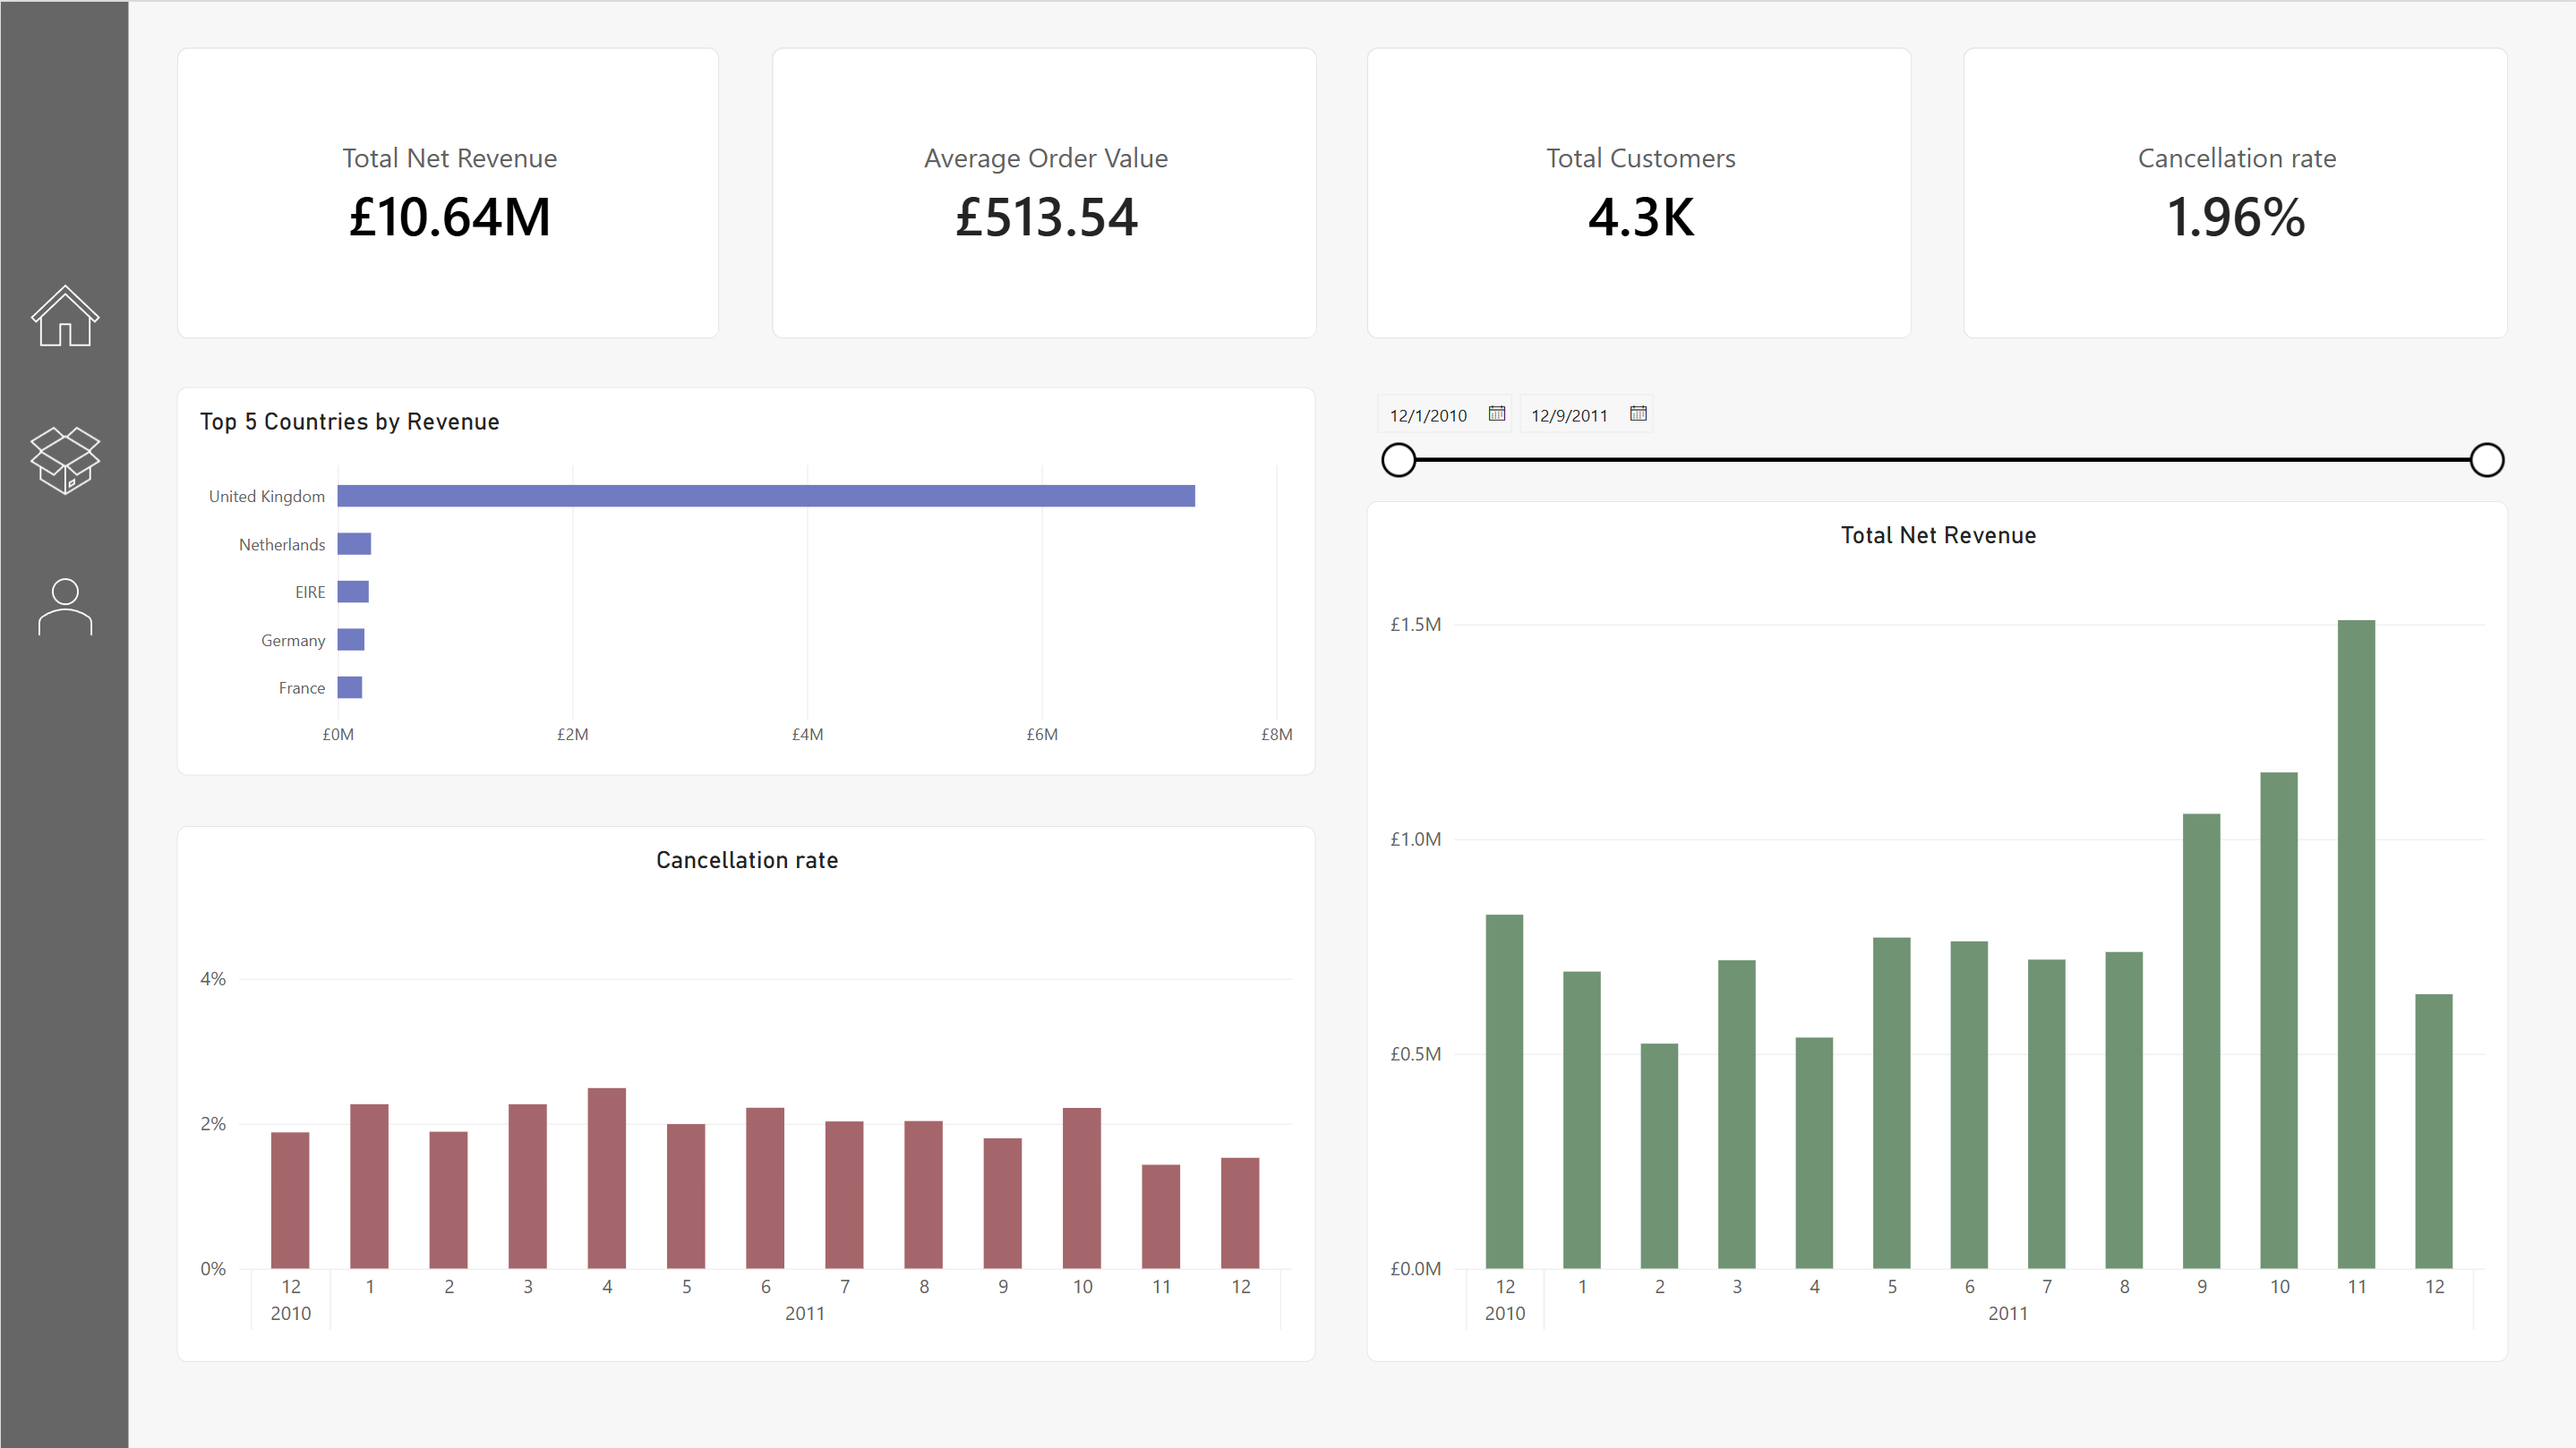
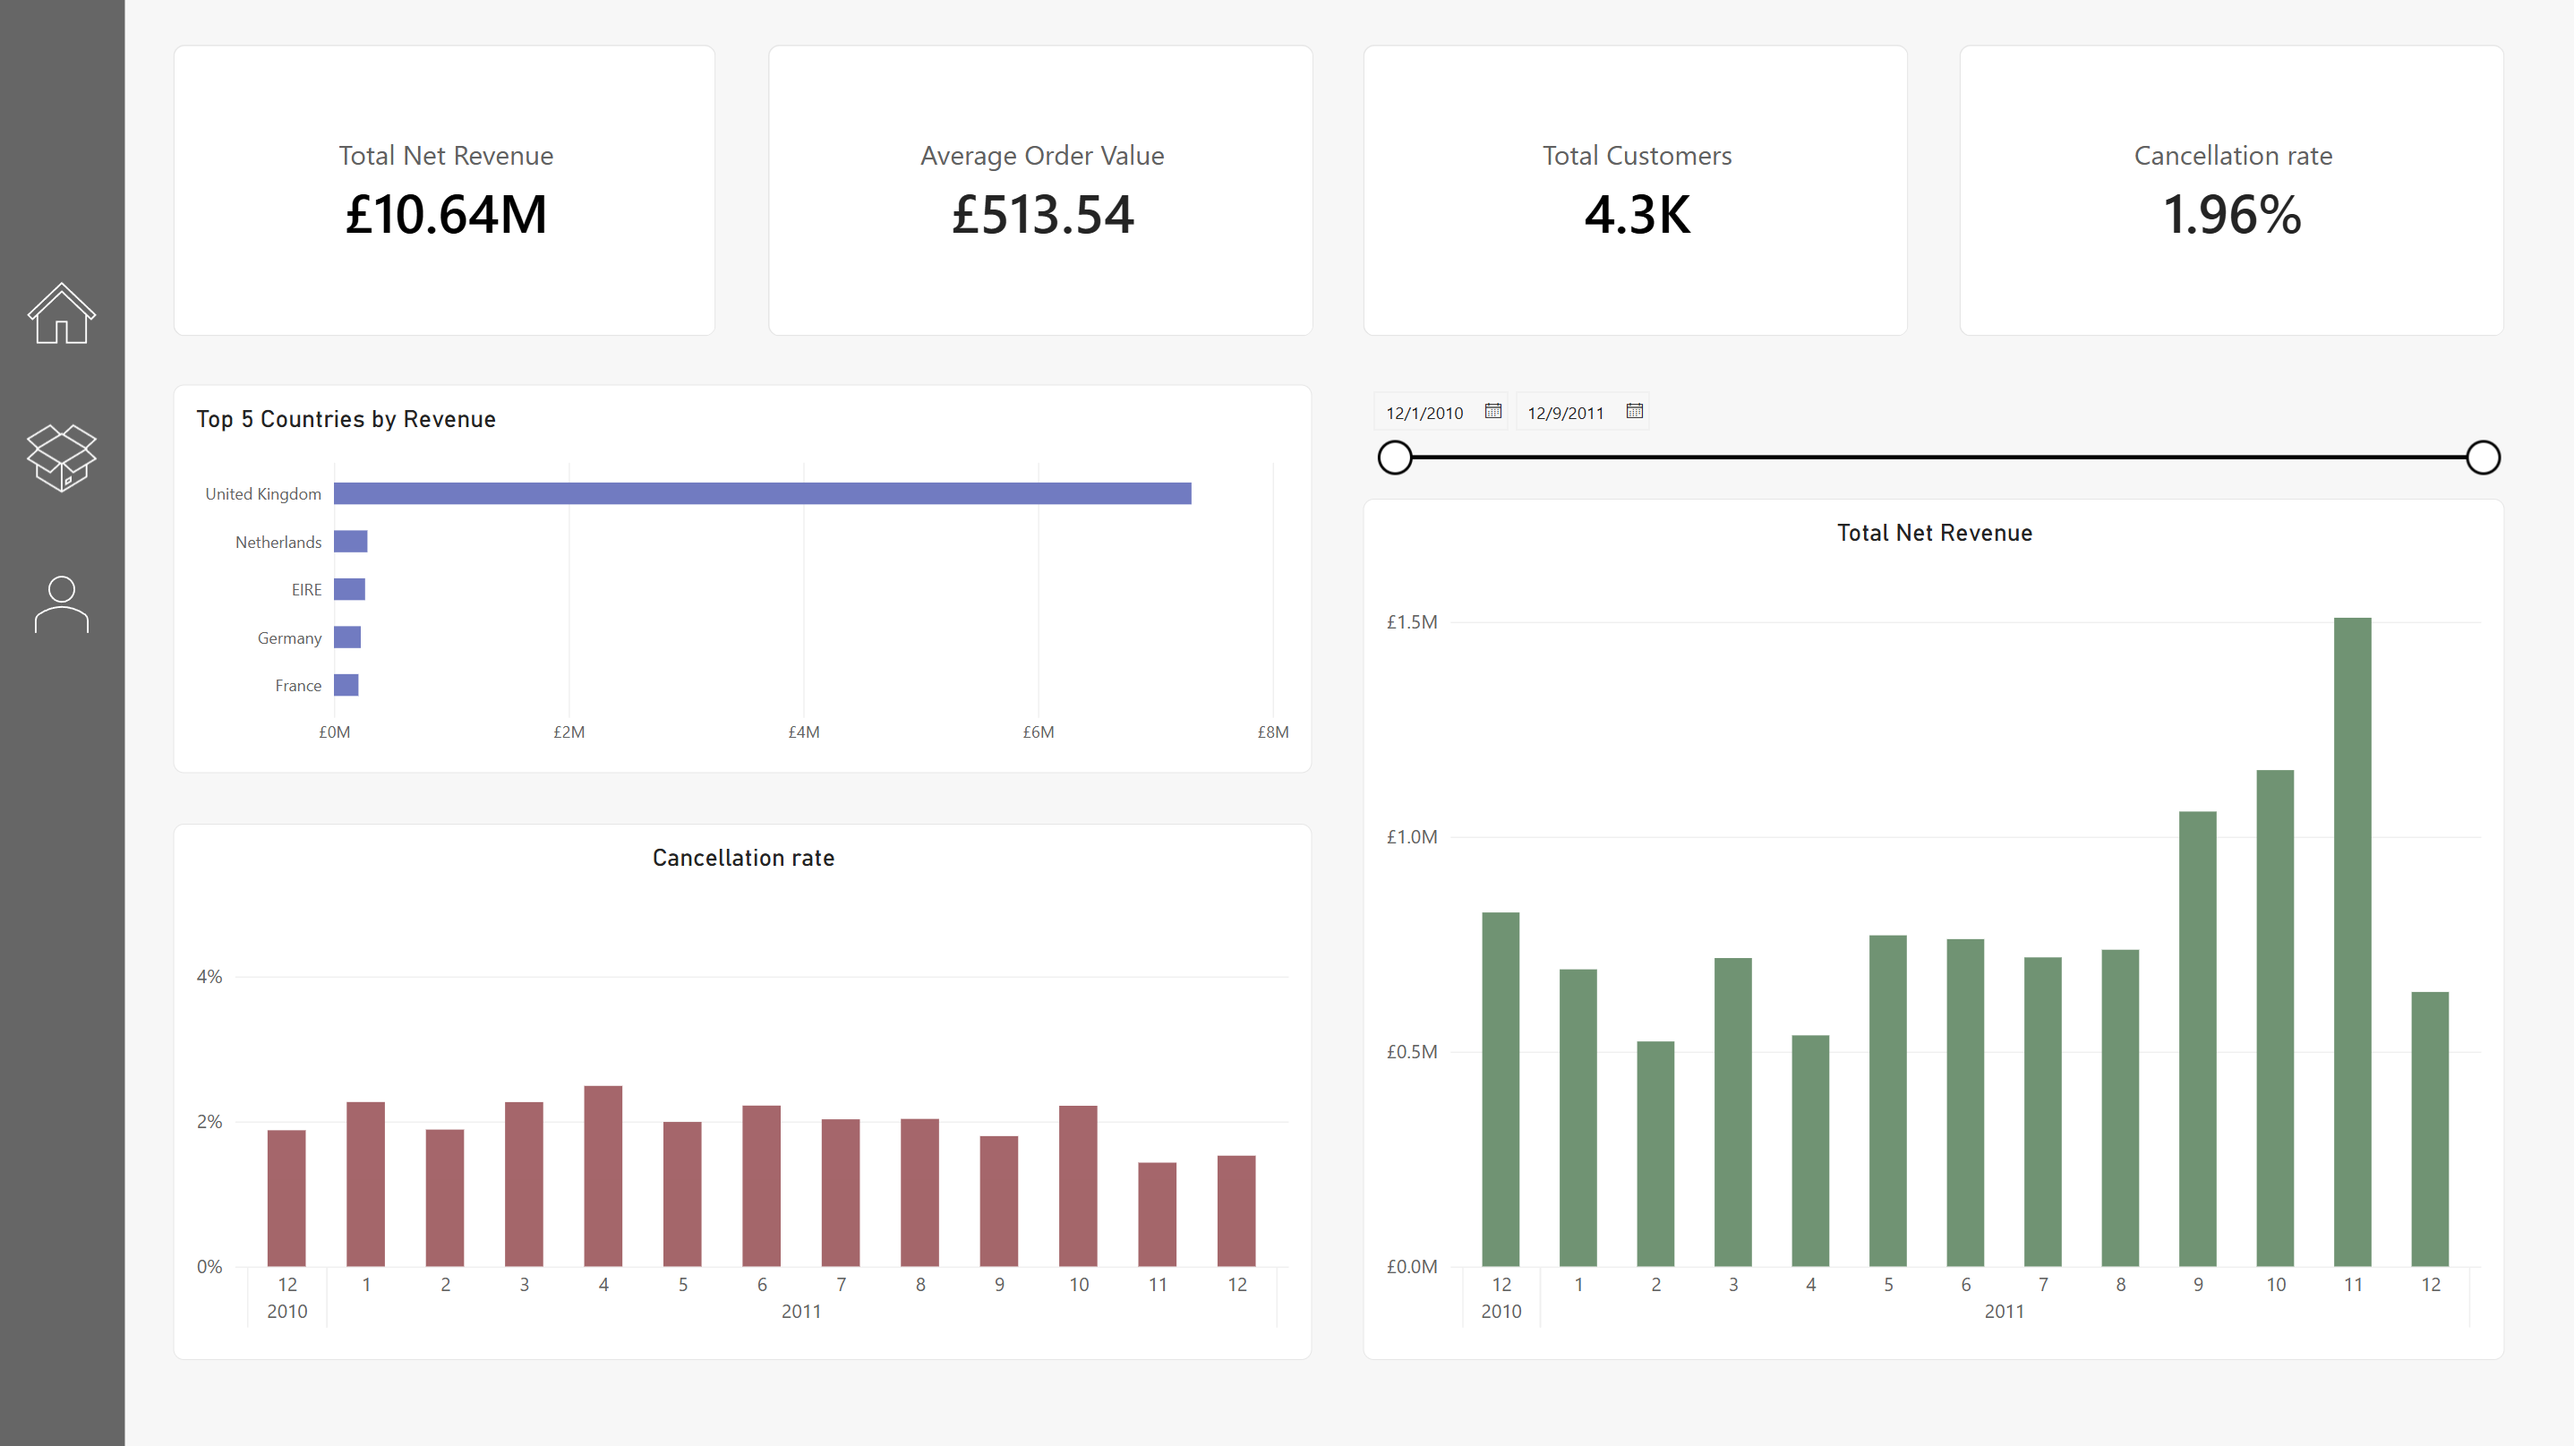
update README.md

diff --git a/README.md b/README.md
@@ -1,0 +1,194 @@
+\# Online Retail Sales Analysis - SQL + Power BI
+
+Data cleaning, star-schema modeling, and RFM customer segmentation on a messy, real-world e-commerce dataset.
+
+
+
+!\[overview](images/overview\_page.png)
+
+
+
+\## Project Overview
+
+Analysis of \~540,000 transactions from a UK-based online gift retailer (Dec 2010 - Dec 2011).
+
+\[dataset source](https://www.kaggle.com/datasets/tunguz/online-retail)
+
+
+
+Unlike a lot of Kaggle datasets, this one is messy - inconsistent product codes, \~25% missing customer IDs, administrative line items mixed in with real products, and ambiguous cancellation data. 
+
+The project covers the full pipeline: staging and cleaning the raw data in PostgreSQL, modeling it into a star schema, and building a 3-page Power BI dashboard with DAX-driven KPIs and an RFM customer segmentation.
+
+
+
+\## Tech Stack
+
+\- \*\*PostgreSQL\*\* - staging, cleaning, and star-schema modeling
+
+\- \*\*Power BI\*\* - data model, DAX measures, dashboard
+
+\- \*\*SQL\*\* - window functions, CTEs, views
+
+
+
+\## Key Findings
+
+\- \*\*Revenue is concentrated in a small group of customers\*\*. Customers scored "high priority" by the RFM model make up around 11% of the customer base, but generate more total revenue than the "low priority" segment - nearly 3x its size - combined. (See Customers % RFM page)
+
+\- \*\*RFM catches what a simple revenue ranking misses.\*\* Customer 12346 spent £77,183 - enough to rank in the top 10 by revenue alone - but it came from a single order placed 325 days ago. RFM correctly scores this customer as medium priority despite the high lifetime spend,
+
+which a naive "sort by total revenue" approach would have missed entirely.
+
+!\[12346](images/customer12346.png)
+
+\- \*\*Strong seasonality\*\*, consistent with a gift retailer: revenue climbs through Q4, peaking in November, then drops sharply in December as the ordering window for Christmas delivery closes.
+
+\- \*\*The UK accounts for the large majority of revenue\*\*, with the Netherlands, Ireland, Germany, and France as distant next-largest markets.
+
+
+
+\## Data Cleaning Highlights
+
+The raw data required more than a straightforward import. Some of the issues found and how they were handled:
+
+
+
+| Issue | Fix |
+
+|---|---|
+
+|Same product stored as `15056bl` and `15056BL`|Normalized all `StockCode` values to uppercase|
+
+|Administrative line items (`POST`, `DOT`, `M`, `BANK CHARGES`, `CRUK`, `C2`, `AMAZONFEE`) mixed into product data|Built a regex-based `is\_real\_product` flag (numeric-first codes only) instead of a hardcoded exclusion list|
+
+|\~25% of rows missing `CustomerID`|Kept in the fact table - it is still real revenue, just excluded from customer-level analysis (RFM, country-by-customer)|
+
+|Some negative-quantity rows were not `C` - prefixed cancellations|Investigated a sample (null `CustomerID`, £0 price, large round quantities - consistent with inventory write-offs, not customer returns) and made the documented call to treat any negative quantity as excluded, since intent could 
+
+not be reliably distinguished from the data alone|
+
+|Duplicate/near-duplicate product descriptions per `StockCode`|Resolved with `MODE()` - kept the most frequently occurring description per code|
+
+
+
+Full cleaning logic is in \[sql/transform.sql](sql/transform.sql)
+
+
+
+\## Data Model
+
+
+
+!\[relationship](images/relationships.png)
+
+
+
+A star schema with `orders` as the fact table, and `customers`, `products`, and `dim\_date` as dimensions. `customer\_rfm` sits as an outrigger off `customers` - a SQL `VIEW` holding pre-computed recency/frequency/monetary scores and a priority label, refreshed independently of the fact table.
+
+
+
+\## Dashboard
+
+\### Overview
+
+!\[overview](images/overview\_page.png)
+
+
+
+Headline KPIs (£10.64M net revenue, £513.54 average order value, 4.3K customers, 1.96% cancellation rate), a monthly revenue trend, top 5 countries by revenue, and a cancellation rate trend for comparison.
+
+
+
+\### Product Performance
+
+!\[product\_performance](images/product\_performance.png)
+
+
+
+Top 10 products by revenue and by quantity (note: these two ranking do not fully overlap) - e.g. "Regency Cakestand 3 Tier" leads by revenue while "Paper Craft, Little Birdie" leads by quantity), a revenue-vs-quantity scatter plot, and a cancellation-rate table restricted to products
+
+with 3+ orders to avoid small-sample distortion.
+
+
+
+\### Customers \& RFM
+
+!\[Customers](images/Customers.png)
+
+
+
+Priority segment distribution, revenue by segment, a recency-vs-revenue scatter colored by priority, and a top 10 customers table with the underlying RFM inputs visible alongside each customer's label.
+
+
+
+\## How to Reproduce
+
+1\. Download the dataset from \[Kaggle](https://www.kaggle.com/datasets/tunguz/online-retail) and place the CSV in `data/`
+
+2\. Run `sql/schema.sql`
+
+3\. Load the CSV into staging:
+
+```
+
+&#x20; psql -U postgres -d online\_retail -f sql/load.sql
+
+```
+
+4\. Run `sql/transform.sql`
+
+5\. Run `sql/analysis.sql`
+
+6\. Open `powerbi/online\_retail\_report.pbix` in Power BI Desktop and point the PostgreSQL connection at your local database
+
+
+
+\## Project Structure
+
+
+
+```
+
+online-retail-sql-powerbi/
+
+├── README.md
+
+├── .gitignore
+
+├── data/                          (gitignored — see step 1 above)
+
+├── sql/
+
+│   ├── schema.sql
+
+│   ├── load.sql
+
+│   ├── transform.sql
+
+│   └── analysis.sql
+
+├── powerbi/
+
+│   └── online\_retail\_report.pbix
+
+└── images/
+
+&#x20;   ├── overview.png
+
+&#x20;   ├── product\_performance.png
+
+&#x20;   ├── customers.png
+
+&#x20;   └── relationships.png
+
+```
+
+
+
+\## Author
+
+\*\*Long\*\*
+
+
+
